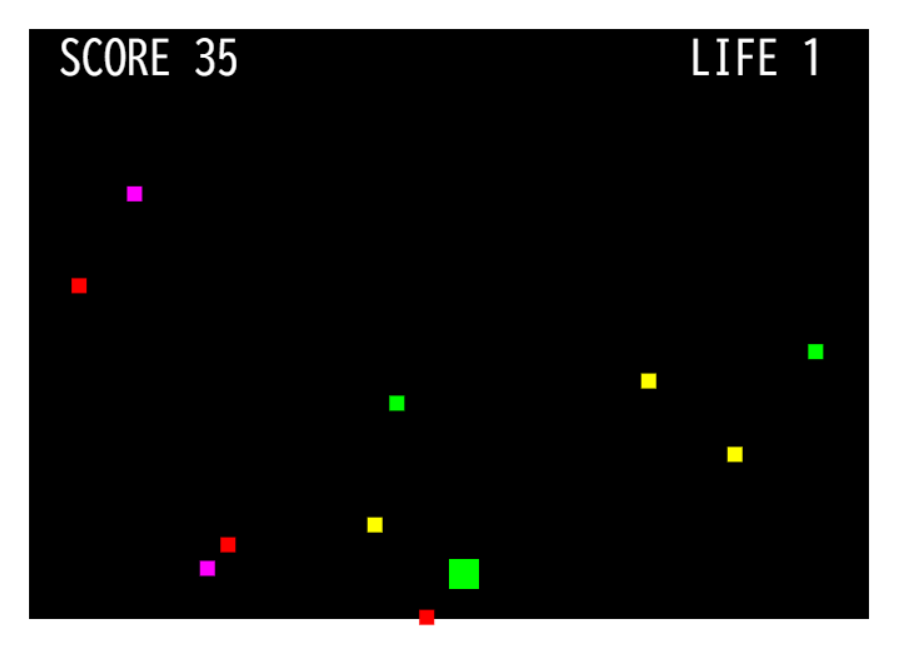
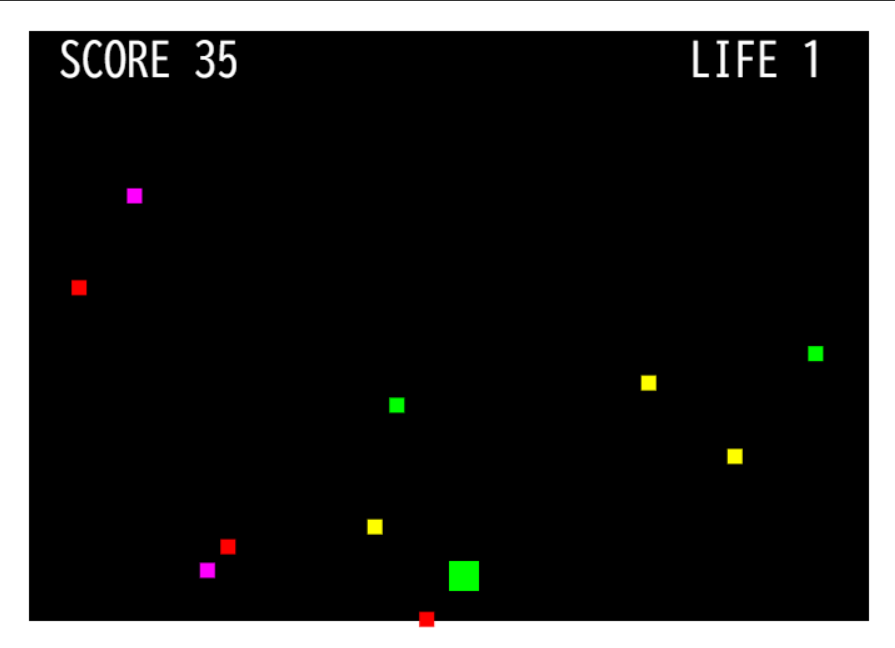
Add files via upload

diff --git a/index.html b/index.html
@@ -6,7 +6,7 @@
     <title>サンのライブラリ</title>
     <link href="style.css" rel="stylesheet">
 </head>
-<body>
+<body style="background-color: silver">
     <p>ここでは成果物一覧をご覧になれます</p>
     <h2>社内研修</h2>
     <h4>Avox</h4>
@@ -18,7 +18,9 @@
         <a href="https://san-san3.github.io/Avox/">こちら</a>
         から
     </p>
+    <hr />
     <h4>BlockBreak</h4>
+    <img src="BlockBreak_Play.png" width="400" alt="BlockBreak見本画像">
     <p>ルール：ボールを反射してブロックをすべて壊そう！</p>
     <p>操作方法：←→キーで移動</p>
     <p>

diff --git a/style.css b/style.css
@@ -1,6 +1,6 @@
 h2 {
     color: white;
-    background-color: skyblue;
+    background-color: dodgerblue;
 }
 h4 {
     color: crimson;
